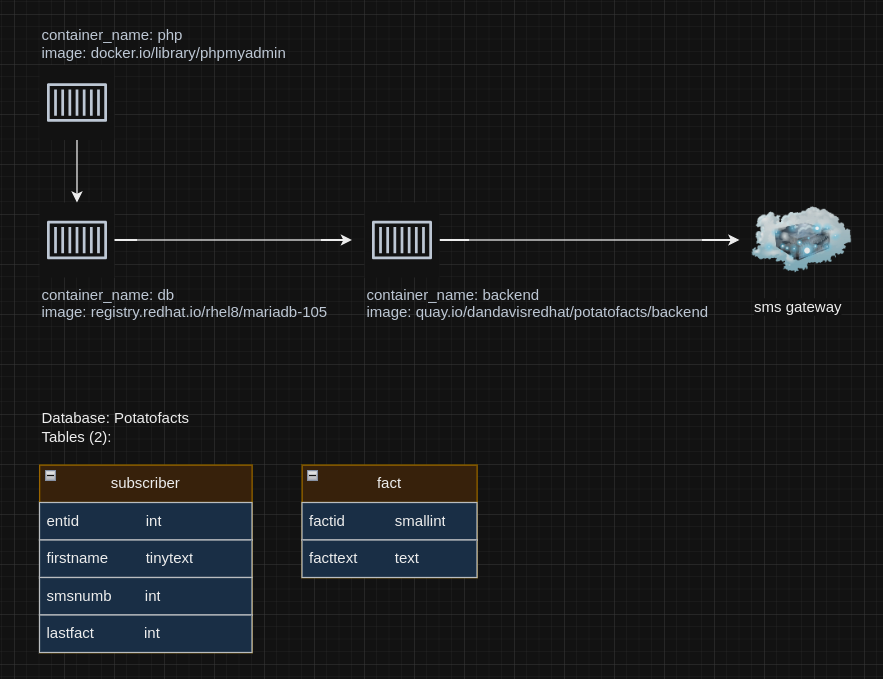
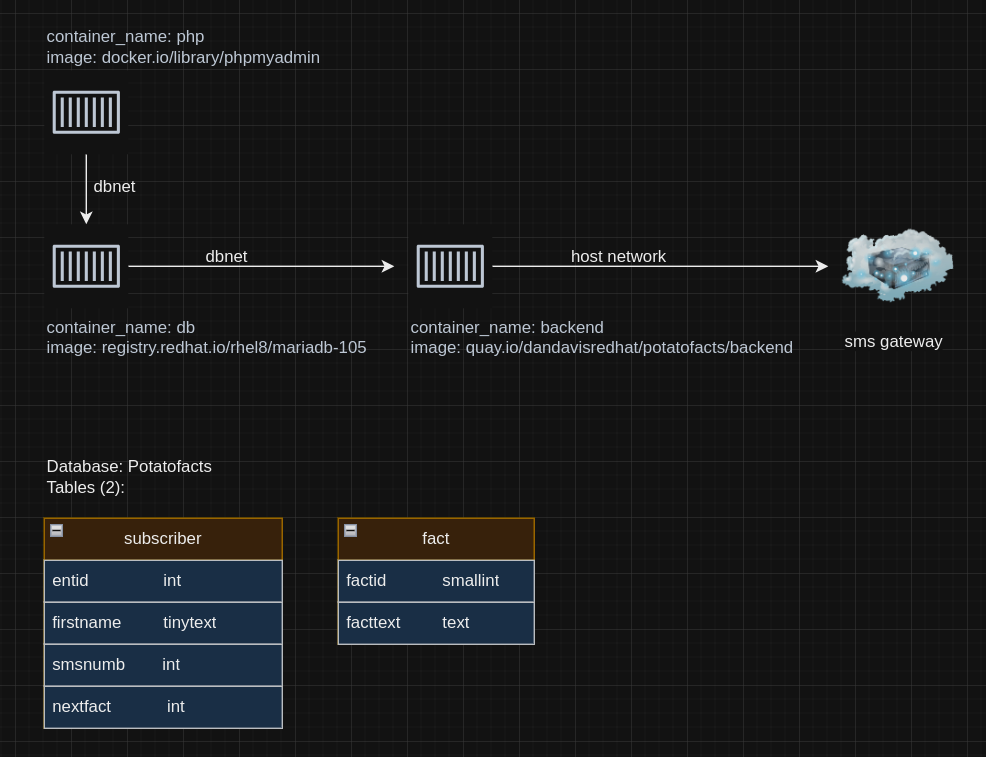
change Potatofacts:lastfact to Potatofacts:nextfact and refactor app.py

diff --git a/backend_build/app.py b/backend_build/app.py
@@ -29,19 +29,19 @@ cnx = mysql.connector.connect(**user_config)
 cursor = cnx.cursor()
 
 # Query for subsciber information
-query = ("SELECT firstname,smsnumb,lastfact from subscriber")
+query = ("SELECT firstname,smsnumb,nextfact from subscriber")
 
-# Exec query and populate sublist => list of lists holding name,number,lastfact
+# Exec query and populate sublist => list of lists holding name,number,nextfact
 cursor.execute(query)
 sublist = []
-for name,smsnumb,lastfact in cursor:
-  sublist.append([name,smsnumb,lastfact]) 
+for name,smsnumb,nextfact in cursor:
+  sublist.append([name,smsnumb,nextfact]) 
 
 # Close db connection
 cnx.close();cursor.close()
 print(sublist)
 
-# Create lastfact list
+# Create nextfact list
 factlist = []
 for item in sublist:
   factlist.append(item[2])
@@ -64,8 +64,10 @@ for subscriber in sublist:
     for facttext in facttextlist:
        subscriber[2] = facttext
 
+print(sublist)
+
 ## Todo: 
-# 1. Update subscriber:lastfact ++1
+# 1. Update subscriber:nextfact ++1
 # 2. Send sublist into smsgateway api
 
 

diff --git a/archive/README.md b/archive/README.md
@@ -2,3 +2,5 @@
 
   - dbstart: Replaced by compose.yml
   - sleep.py: Runs in the backend image to keep the container running while I develop the app.
+  - db.sql: Deprecaetd dump of the db
+  - facts.txt: facts list in plaintext.
